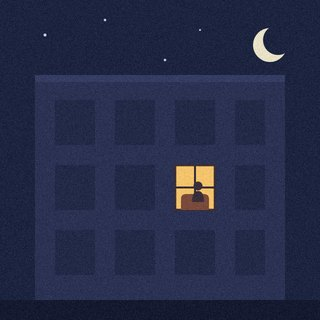
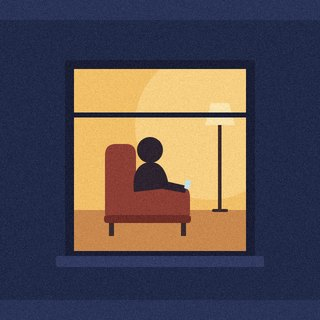
Rename Nobody Around to Keep Me Company; redraw its tile
The old name described an empty room rather than the feeling or what the music is for.
The tile was a dark building with one speck of light, unreadable at row size; it is now
one lit window close up, a person alone in an armchair.

Claude-Session: https://claude.ai/code/session_0114krkFjkeu2JMQwbuRz3Dj

diff --git a/src/data.js b/src/data.js
@@ -4104,7 +4104,7 @@ const MODES = [
     ["chillwave","Summers seen through a broken VHS"],
     ["vaporwave","A shopping mall that only exists in memory now"]
    ],2],
-  ["lonely","Nobody Around","When the quiet is the problem, not the cure.",
+  ["lonely","Keep Me Company","When the quiet is the problem, not the cure.",
    "Not grief, which is Sit With It, and not the walk you chose to take alone, which is Wandering. This is the empty apartment and the phone that does not ring. Psychologists studying music as a social surrogate found that lonely people reach for favourite, familiar music rather than something new, and that it works through connection: to the singer, and to the people a song reminds you of. So this is built around voices, close-miked and talking to one person, many of them singing about being alone so that you are not the only one who is.",
    [
     ["honkytonk","Lonesome is the native language here"],
